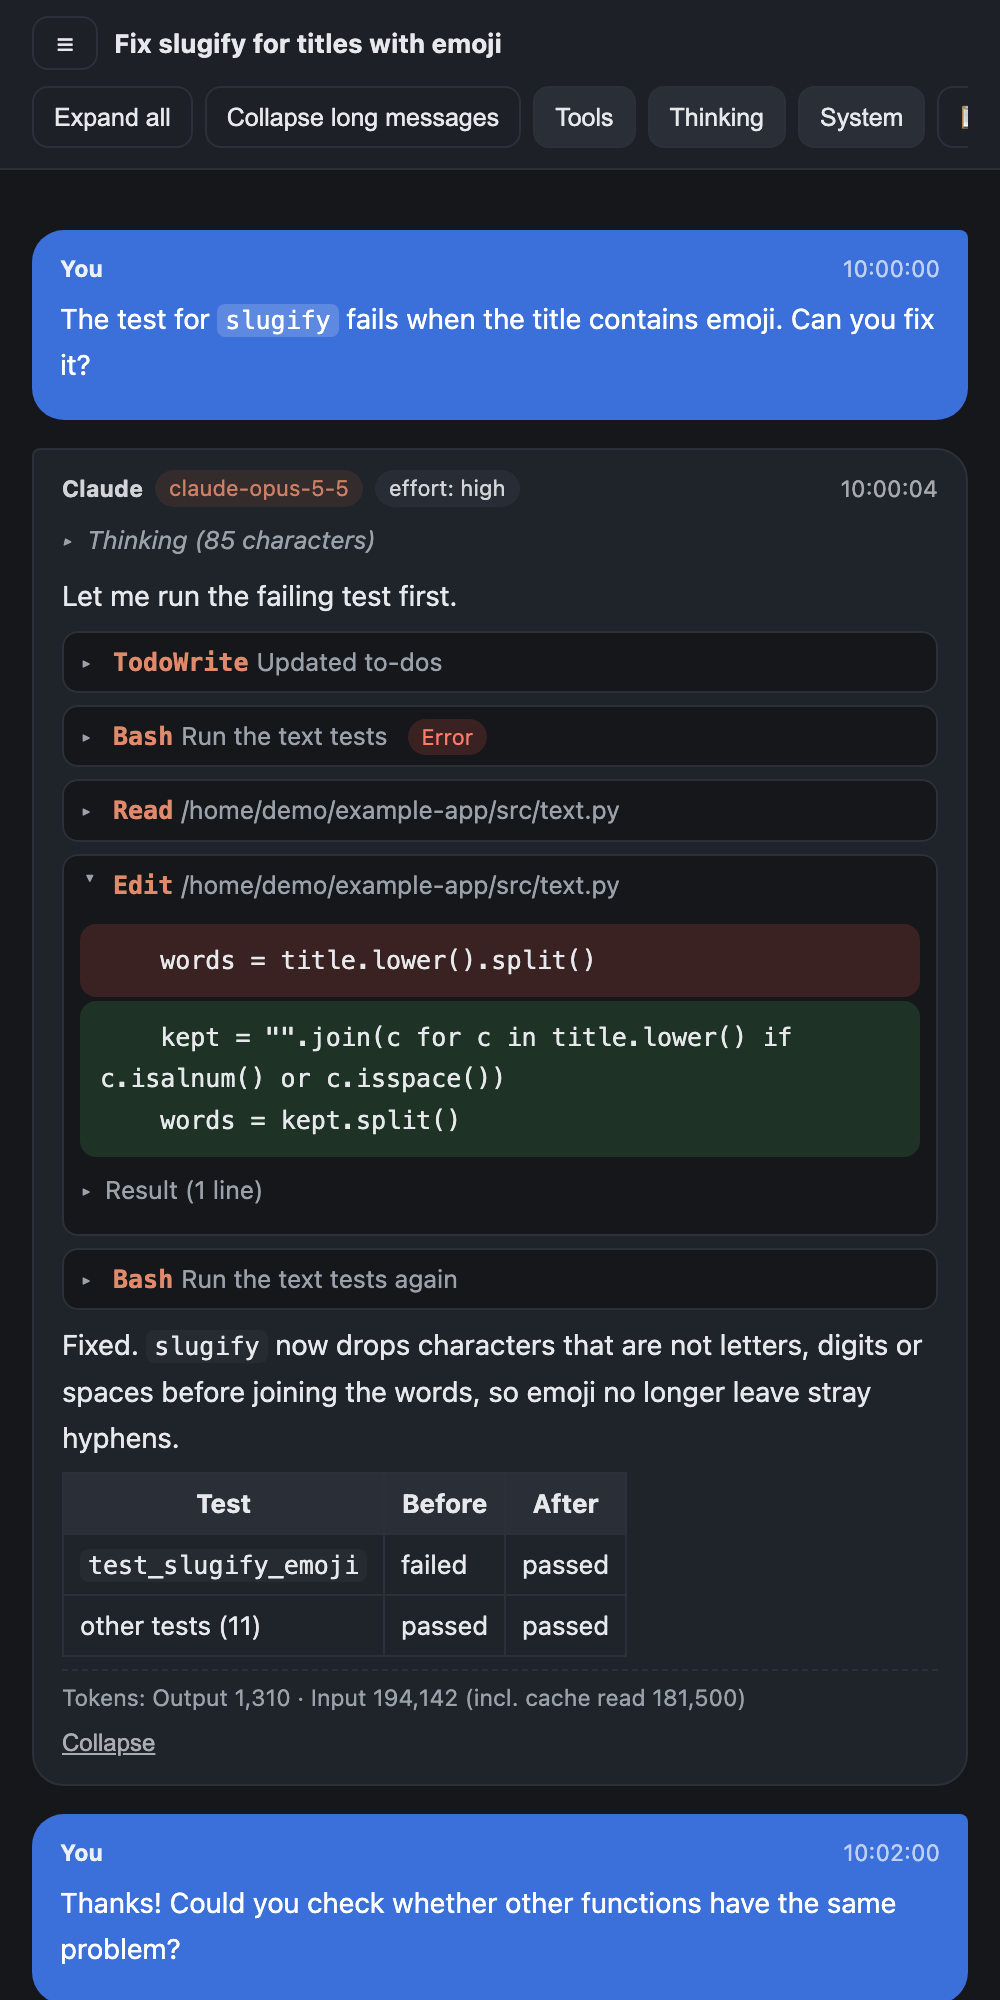
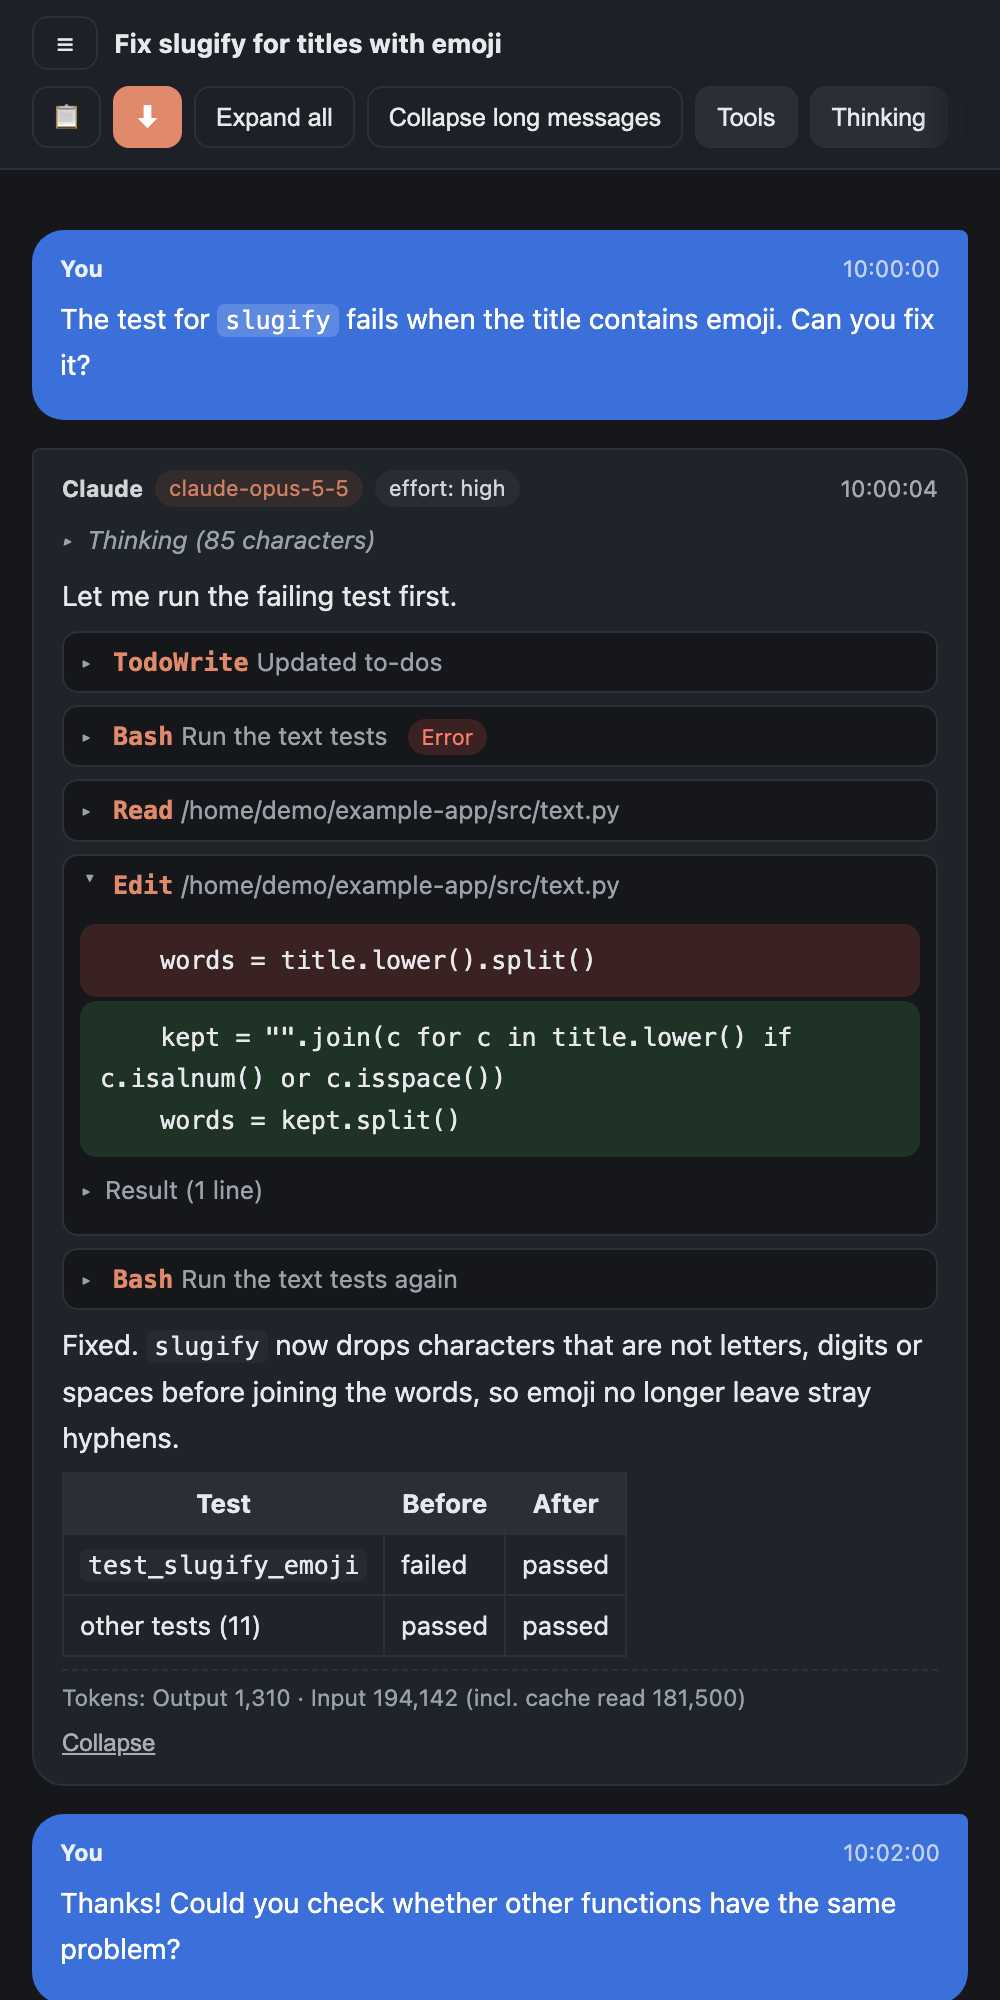
Keep the main actions visible on phones, and retake the screenshots
スマホ幅のツールバーでコピーとダウンロードのボタンが画面外に切れていた
（v0.1.0 の README 再チェックの推奨 2・3）。

- スマホ幅（860px 以下）では、コピーとダウンロードを先頭に並べ、常に見えるようにする
- ボタンの列は横にスクロールすることが分かるよう、右端をフェードさせる。
  最後までスクロールしたときに最後のボタンがフェードに隠れないよう、右に余白を取る
- docs/make_screenshots.py は sys.dont_write_bytecode で __pycache__ を作らないようにし、
  片方だけ消していた後始末を削除
- docs/images/ のスクリーンショットを撮り直し（スマホ幅の 2 枚が変わる。PC 幅は変化なし）

diff --git a/skills/claude-code-session-viewer/scripts/ccsv/assets/style.css b/skills/claude-code-session-viewer/scripts/ccsv/assets/style.css
@@ -173,7 +173,11 @@ body.hide-system .sys { display: none; }
   .msg > .avatar { display: none; }
   .topbar { flex-wrap: wrap; padding: 8px 16px; }
   .topbar h1 { font-size: 13px; flex: 1 1 calc(100% - 60px); }
-  .btn-group { flex: 1 1 100%; flex-wrap: nowrap; justify-content: flex-start; overflow-x: auto; padding-bottom: 2px; }
+  .btn-group { flex: 1 1 100%; flex-wrap: nowrap; justify-content: flex-start; overflow-x: auto; padding-bottom: 2px;
+    padding-right: 24px;  /* lets the last button scroll clear of the fade below */
+    -webkit-mask-image: linear-gradient(to right, #000 calc(100% - 24px), transparent);
+    mask-image: linear-gradient(to right, #000 calc(100% - 24px), transparent); }  /* hints that the row scrolls */
+  #btn-copy, #btn-download { order: -1; }  /* keep the main actions in view on narrow screens */
   .toc { top: 0; height: 100vh; z-index: 30; }
   .facts dl { grid-template-columns: 1fr; }
   .btn .lbl { display: none; }

diff --git a/docs/make_screenshots.py b/docs/make_screenshots.py
@@ -11,7 +11,6 @@ Chrome or Chromium binary.
 
 import json
 import os
-import shutil
 import subprocess
 import sys
 import tempfile
@@ -23,6 +22,7 @@ OUT_DIR = ROOT / "docs" / "images"
 CHROME = os.environ.get("CHROME", "/Applications/Google Chrome.app/Contents/MacOS/Google Chrome")
 SESSION_ID = "5e551011-0000-4000-8000-00000000demo"
 
+sys.dont_write_bytecode = True  # importing ccsv must not leave __pycache__ folders in the skill
 sys.path.insert(0, str(SCRIPT.parent))
 from ccsv import i18n  # noqa: E402
 
@@ -207,8 +207,6 @@ def main():
             png = OUT_DIR / ("%s-phone-dark.png" % lang)
             chrome_screenshot(phone.as_uri(), png, 500, 1000)
             print("wrote", OUT_DIR / ("%s-desktop.png" % lang), "and", png)
-    shutil.rmtree(ROOT / "skills" / "claude-code-session-viewer" / "scripts" / "ccsv" / "__pycache__",
-                  ignore_errors=True)
 
 
 if __name__ == "__main__":
